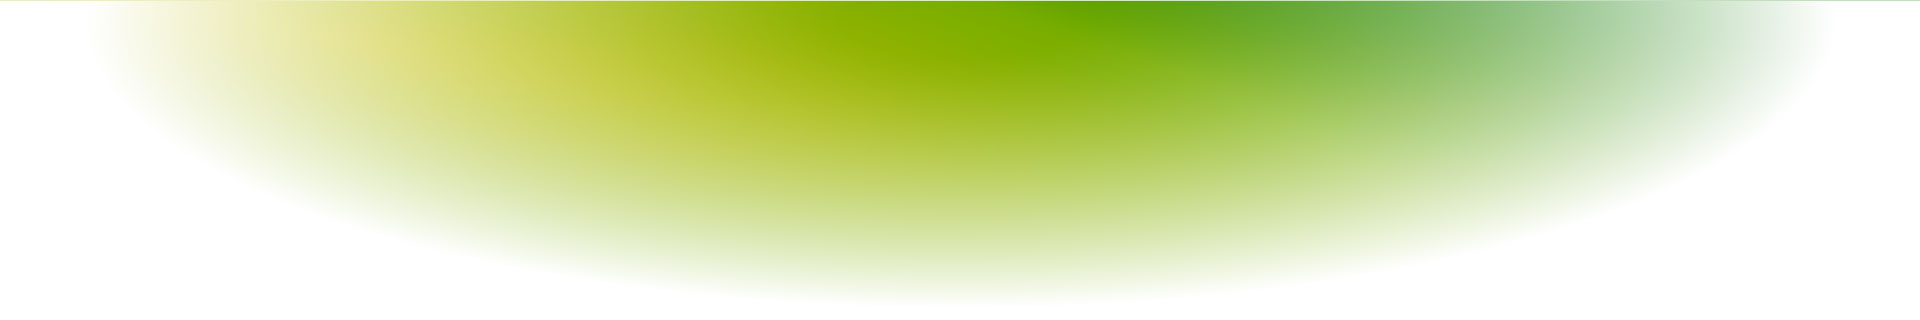
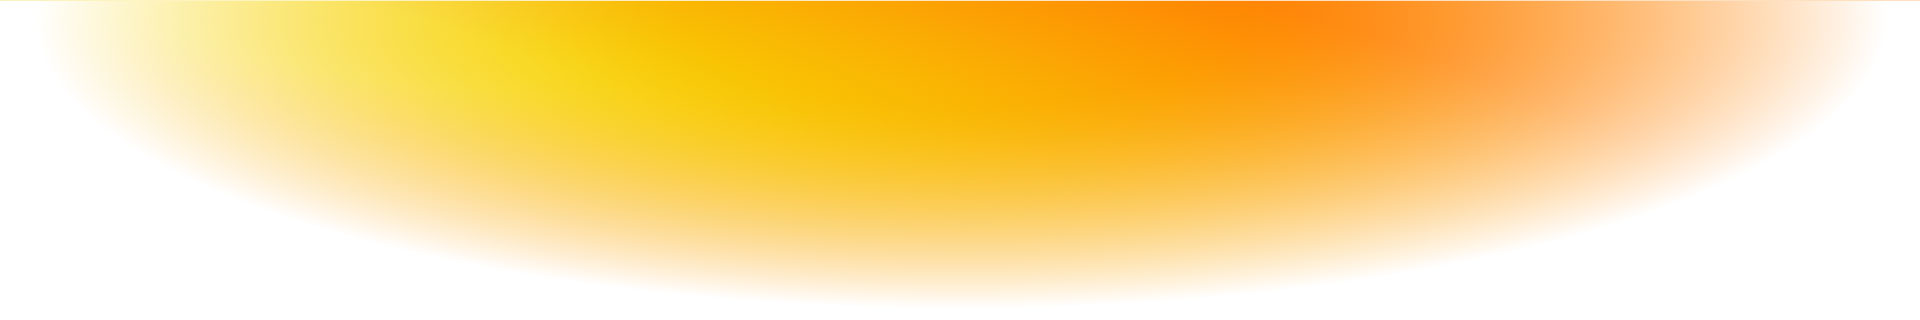
feat(Web): Updated theme images

diff --git a/src/BCRM/WebBundle/Resources/public/css/styles.scss b/src/BCRM/WebBundle/Resources/public/css/styles.scss
@@ -566,7 +566,7 @@ form {
 footer {
   margin-top: 10em;
   min-height: 24.875em;
-  background: $footer url('../images/bg_footer.png') no-repeat center top;
+  background: $footer url('../images/bg_footer.jpg') no-repeat center top;
   h2 {
     color: $bg;
     /*text-shadow: 1px 1px 2px #7F7F7F;*/

diff --git a/src/BCRM/WebBundle/Resources/public/css/slider.css b/src/BCRM/WebBundle/Resources/public/css/slider.css
@@ -19,7 +19,7 @@
     position: absolute;
     bottom: 0;
     left: 0;
-    background: #bf187b repeat url(../images/bg_sprite.png);
+    background: #bf187b repeat url(../images/bg_sprite.jpg);
     width: 100%;
 }
 
